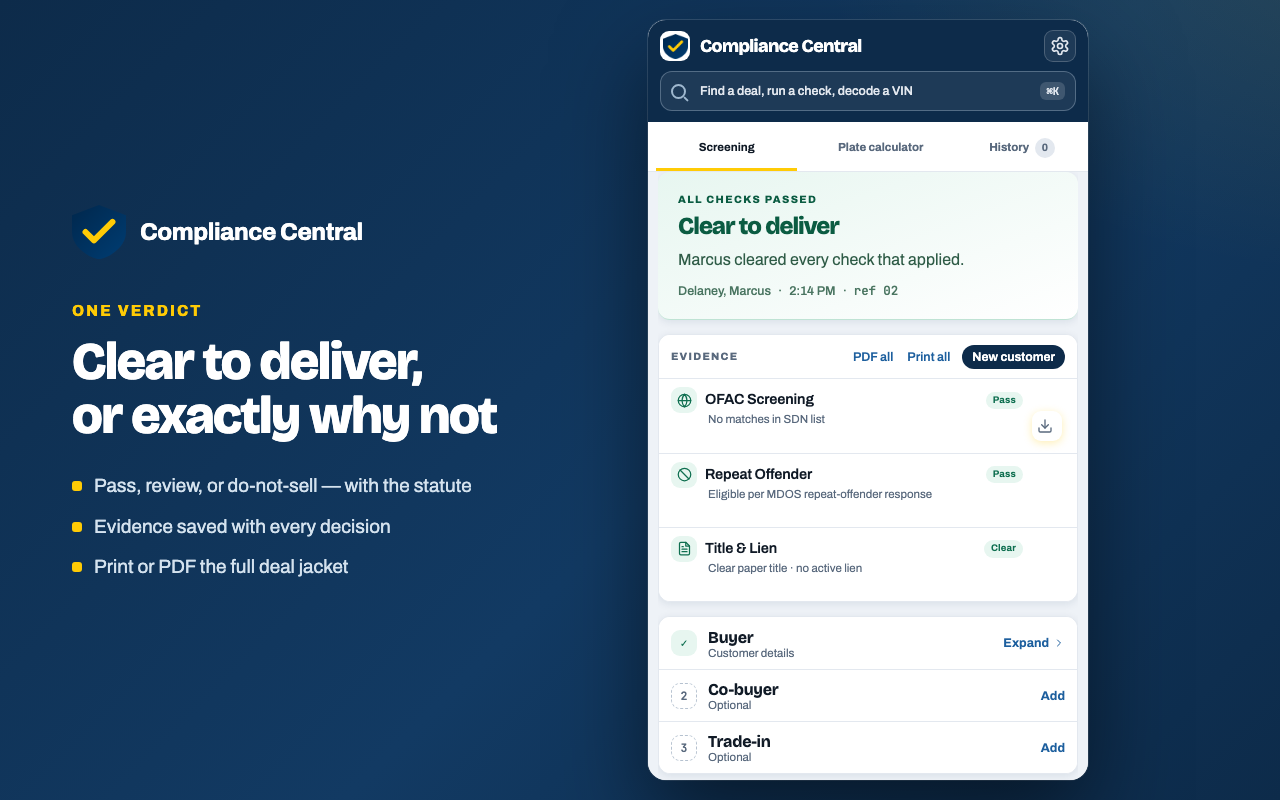
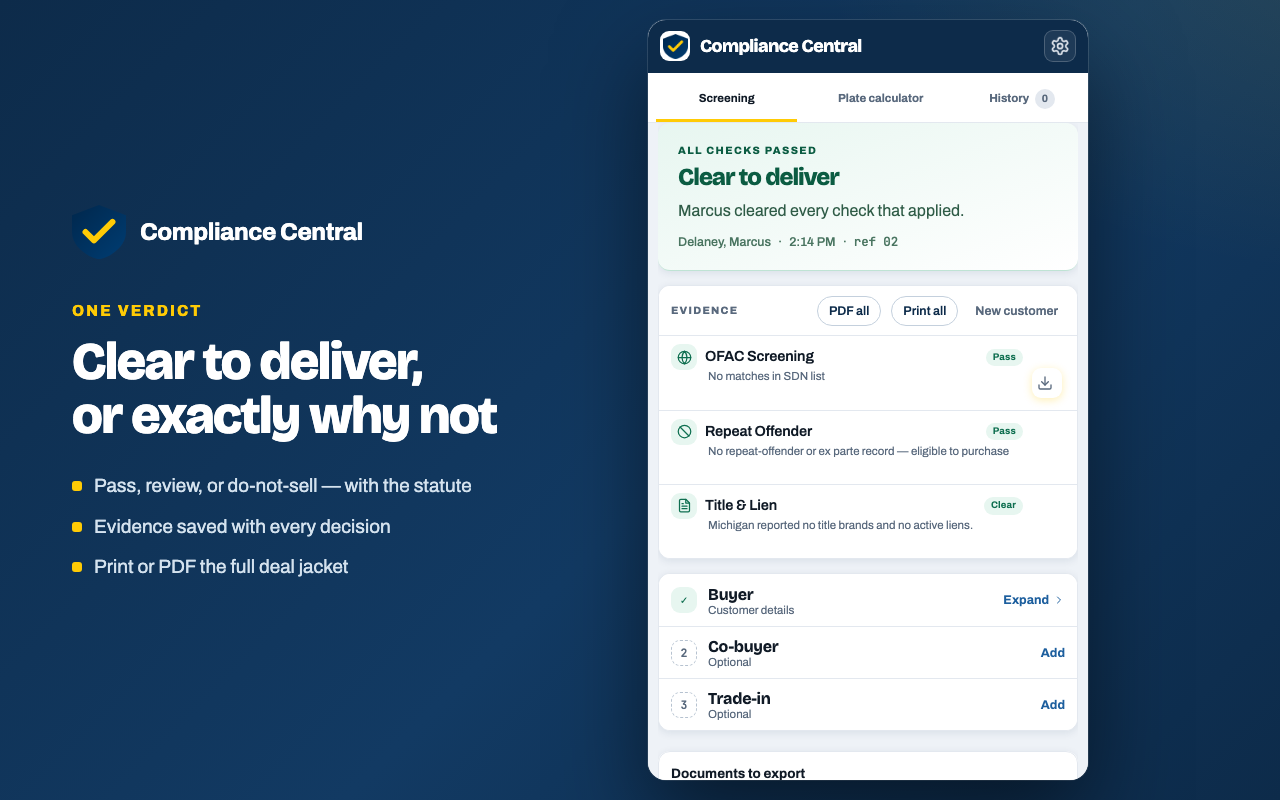
Stop the listing photographing copy the product no longer says
The store screenshots are captures of the real panel with a staged result
state, and two of the three staged result lines had drifted from the copy
pass: the panel now reads "No repeat-offender or ex parte record —
eligible to purchase" and "Michigan reported no title brands and no
active liens", but the listing was still being photographed saying
"Eligible per MDOS repeat-offender response" and "Clear paper title · no
active lien". A listing image showing wording the product does not
contain is a misrepresentation, however small.

The guard that was meant to catch exactly this covered two hand-listed
strings, so a third one drifted straight past it. It now derives every
staged result line from the capture script itself, so a new one cannot be
added without being checked. And its notion of "shipped" was three
hand-picked files, which would have reported a true string in results.js
as missing — it now reads the whole runtime.

Listing screenshots and the site's copies regenerated on the refined
panel: trimmed header, chip-styled PDF and Print, the export panel no
longer opening 420px of empty white.

Changed region(s): [[0.5, 0.0625, 0.875, 1.0]]

diff --git a/tests/release-copy.test.js b/tests/release-copy.test.js
@@ -113,14 +113,42 @@ test("store screenshots stage only copy the app really uses", async () => {
   const { readFile } = await import("node:fs/promises");
   const root = new URL("../", import.meta.url);
   const capture = await readFile(new URL("tools/capture-store-shots.mjs", root), "utf8");
-  const quote = await readFile(new URL("src/sidepanel/sos-fee-quote.js", root), "utf8");
-  const panel = await readFile(new URL("sidepanel.js", root), "utf8");
-  const html = await readFile(new URL("sidepanel.html", root), "utf8");
-  const shipped = `${quote}\n${panel}\n${html}`;
+  // "Shipped" has to mean the whole runtime, not three hand-picked files — a
+  // result line lives in results.js and title-format.js, and a guard that
+  // cannot see them would report a true string as missing.
+  const { readdir } = await import("node:fs/promises");
+  const dirs = ["src/sidepanel", "src/worker", "lib"];
+  const parts = [
+    await readFile(new URL("sidepanel.js", root), "utf8"),
+    await readFile(new URL("sidepanel.html", root), "utf8"),
+  ];
+  for (const dir of dirs) {
+    for (const name of await readdir(new URL(`${dir}/`, root))) {
+      if (name.endsWith(".js") && !name.endsWith(".min.js")) {
+        parts.push(await readFile(new URL(`${dir}/${name}`, root), "utf8"));
+      }
+    }
+  }
+  const shipped = parts.join("\n");
+
+  // Every result line the staging writes, not a hand-kept subset — two of these
+  // had already drifted from the copy pass and were photographed for the
+  // listing showing wording the product no longer used.
+  const stagedResultLines = [...capture.matchAll(
+    /\["\w+ResultCard", "\w+ResultStatus", "((?:[^"\\]|\\.)*)"\]/g
+  )].map((m) =>
+    m[1]
+      // The staging writes some characters as escapes; compare the text the
+      // page would actually receive.
+      .replace(/\\\\u([0-9a-fA-F]{4})/g, (_, h) => String.fromCharCode(parseInt(h, 16)))
+      .replace(/\\\\u([0-9a-fA-F]{4})/g, (_, h) => String.fromCharCode(parseInt(h, 16)))
+  );
+  assert.ok(stagedResultLines.length >= 3, "expected the staged result lines");
 
   for (const staged of [
     "Calculated by SOS",
     "Official SOS calculation complete.",
+    ...stagedResultLines,
   ]) {
     assert.ok(
       capture.includes(staged),
